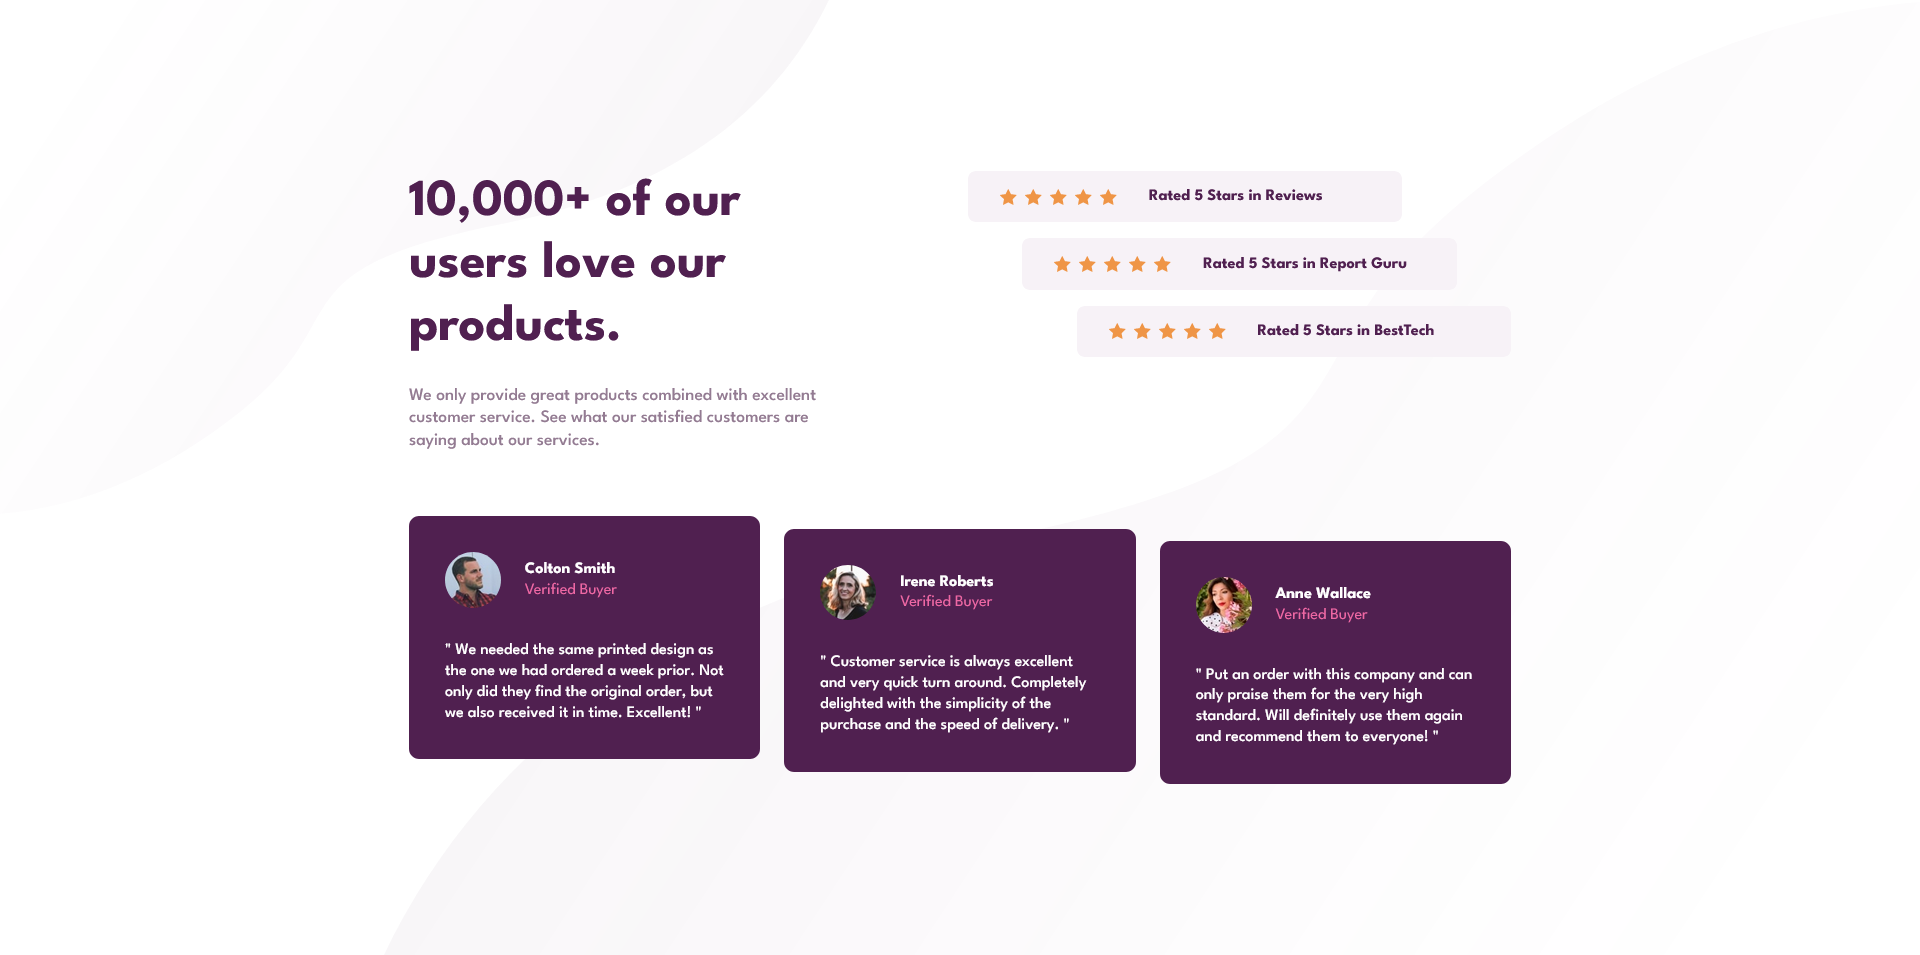
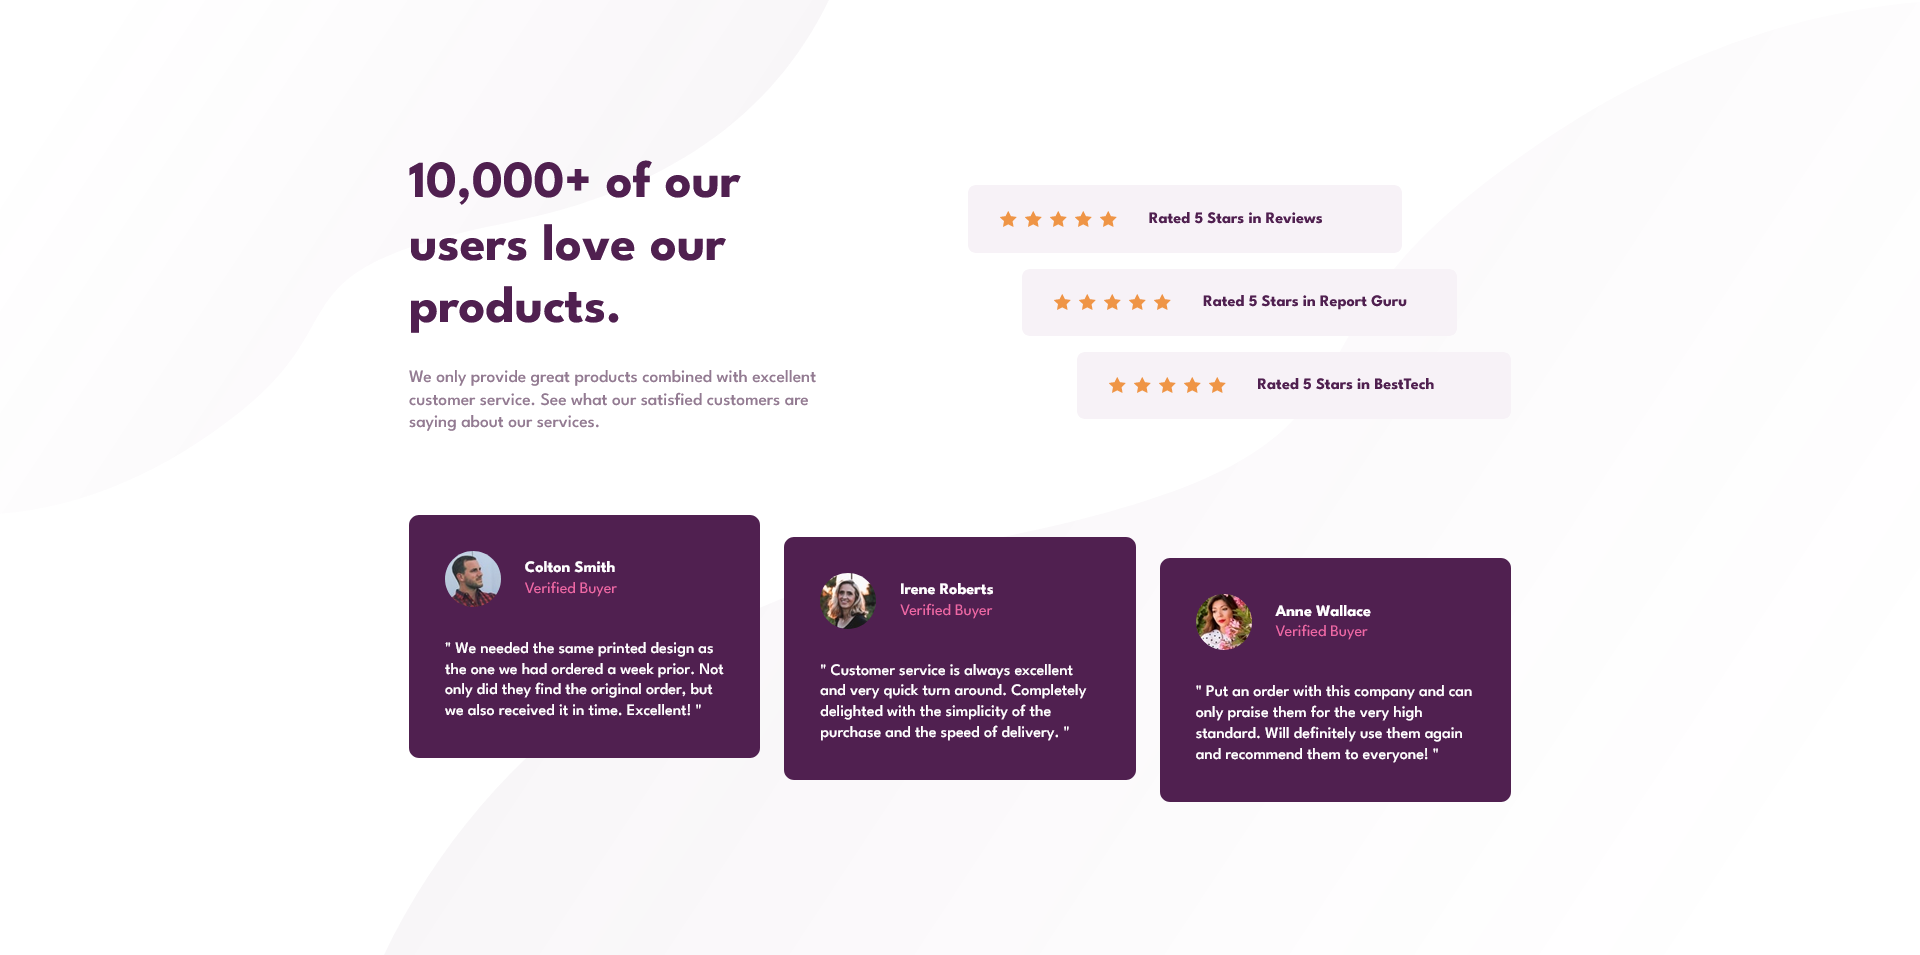
Add files via upload

diff --git a/css/style.css b/css/style.css
@@ -166,6 +166,7 @@ main {
 
     .rates {
         grid-column: 2 / -1;
+        padding: 2rem 0;
     }
 
     .rate {
@@ -174,7 +175,7 @@ main {
         justify-content: start;
         gap: 2rem;
         width: 100%;
-        padding-inline: 2rem;
+        padding: 1.5rem 2rem;
     }
 
     .reviews {
